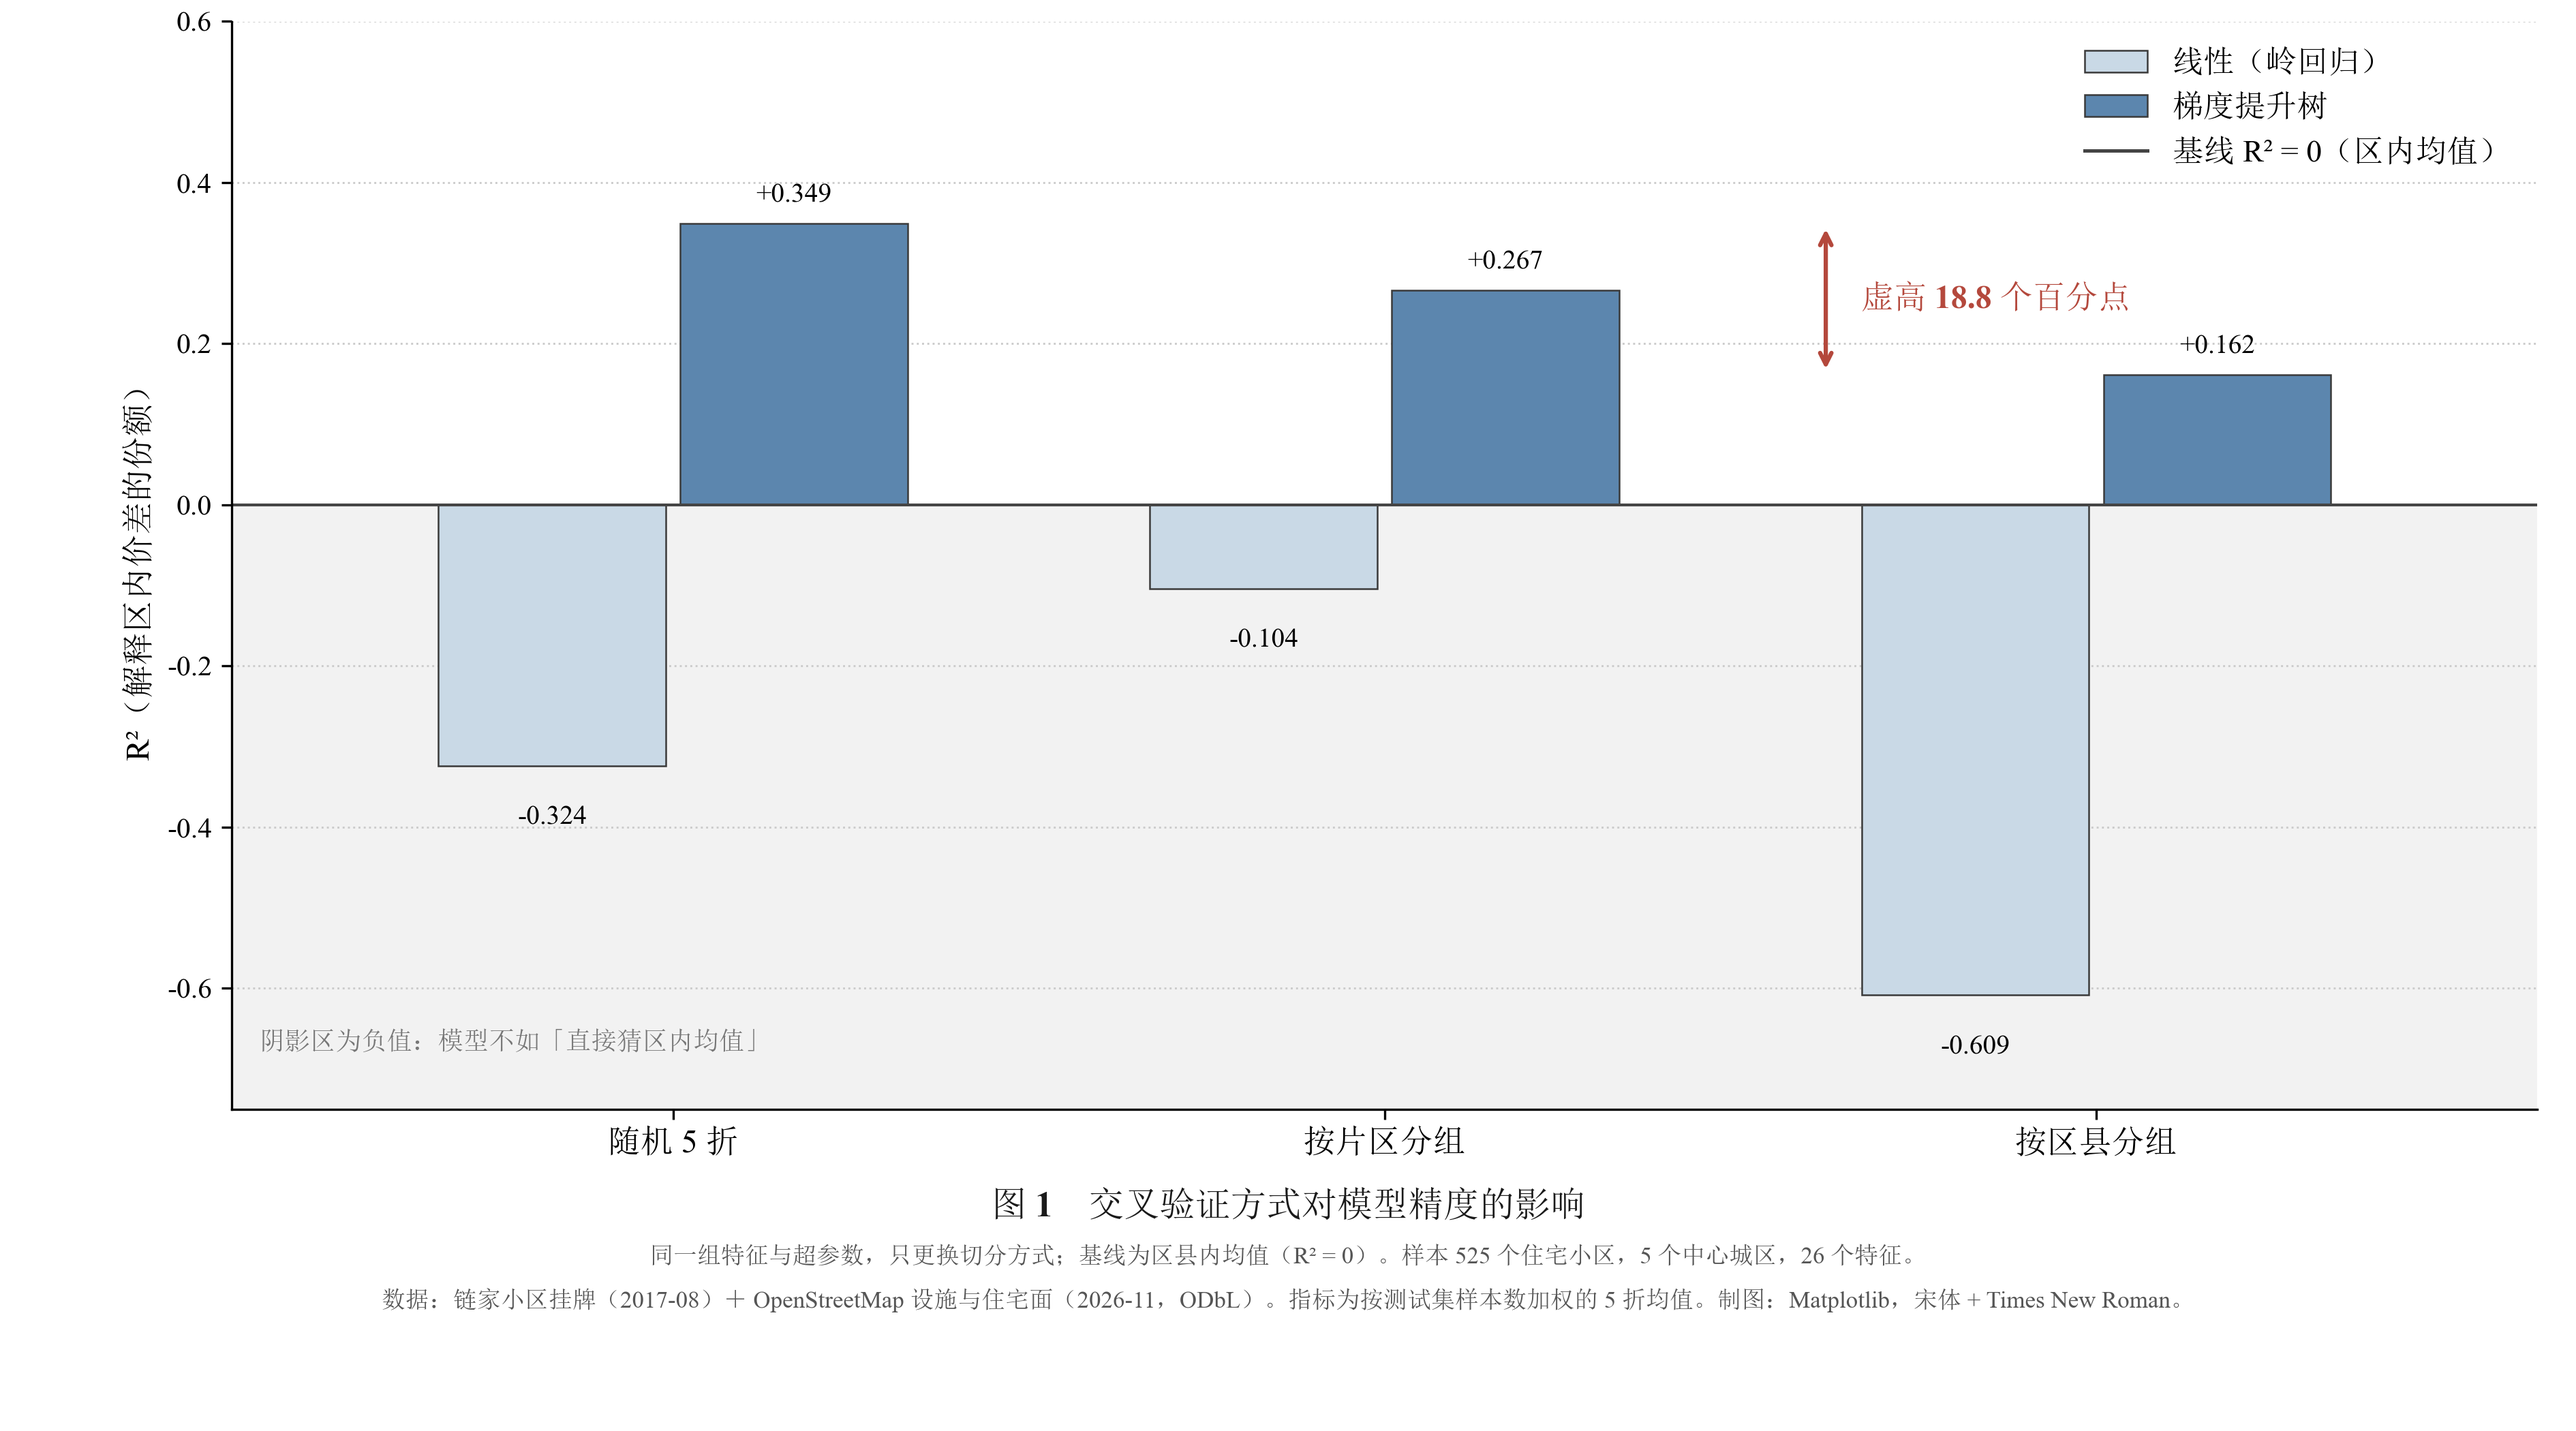
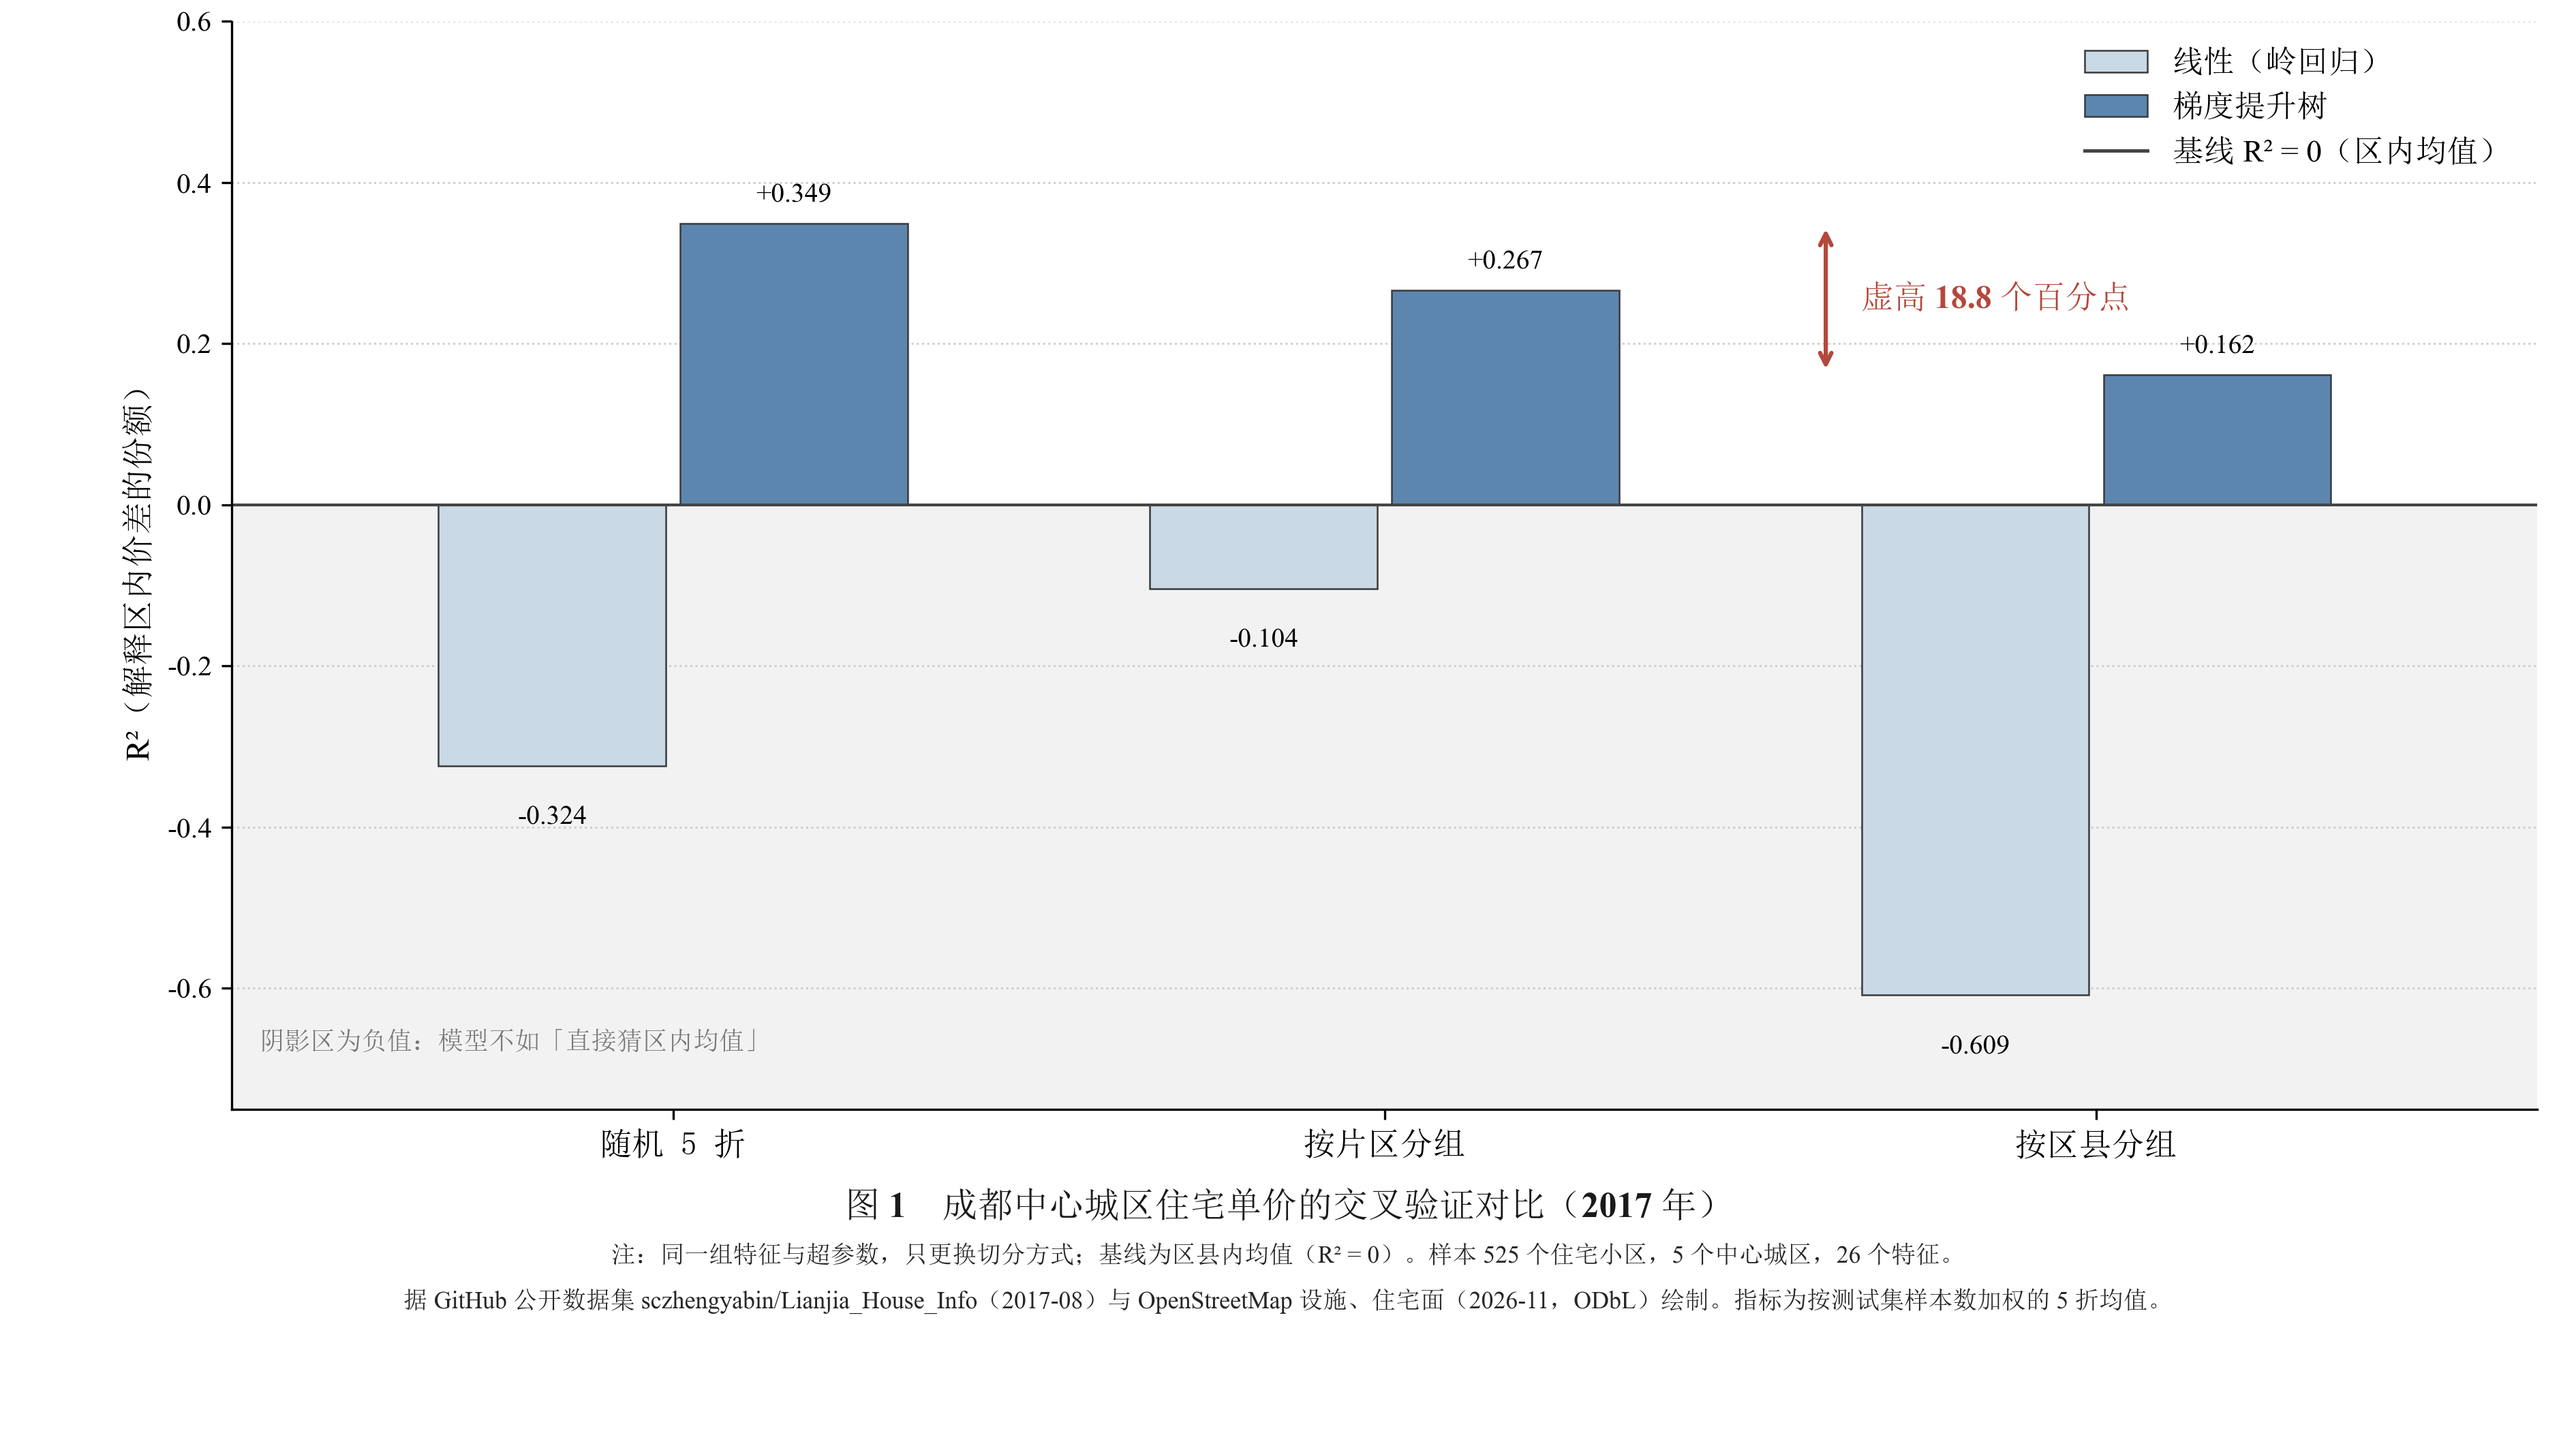
figs: 图题补地点时段自明性、注行改黑色并标数据出处（GB/T 7713.2-2022 §5.4.3）

Changed region(s): [[0.1561, 0.7738, 0.8429, 0.9286], [0.7804, 0.7738, 0.8429, 0.8048], [0.2185, 0.7738, 0.281, 0.8048]]

diff --git a/figures.py b/figures.py
@@ -53,12 +53,13 @@ def setup_fonts() -> bool:
 
 def add_caption(fig, no: int, title: str, notes: list[str], top: float,
                 step: float = 0.030) -> None:
-    """论文式图注：图号 + 题名居中放在图下，其后接说明行（小字、灰色）。"""
+    """论文式图注（GB/T 7713.2—2022 §5.4.3）：图序与图题居中置于图下方，
+    图题自明（含地点与时段），其下接「注：…」说明行，黑色、字号小于正文。"""
     fig.text(0.5, top, f"图 {no}　{title}", ha="center", va="top",
              fontsize=12.5, fontweight="bold", color="#1a1a1a")
     for i, n in enumerate(notes):
         fig.text(0.5, top - 0.038 - i * step, n, ha="center", va="top",
-                 fontsize=8.4, color="#555555")
+                 fontsize=8.6, color="#262626")
 
 
 def load_all():
@@ -101,7 +102,7 @@ def fig_cv_gap(cv: dict) -> Path:
             fontsize=11.5, color=WARM, ha="left", va="center", fontweight="bold")
 
     ax.set_xticks(x)
-    ax.set_xticklabels([s[1] for s in schemes], fontsize=11.5)
+    ax.set_xticklabels([s[1] for s in schemes], fontsize=11.5, fontfamily="SimSun")
     ax.set_ylabel("R²（解释区内价差的份额）", fontsize=11.5)
     ax.set_ylim(-0.75, 0.60)
     ax.set_xlim(-0.62, 2.62)
@@ -120,11 +121,11 @@ def fig_cv_gap(cv: dict) -> Path:
 
     fig.subplots_adjust(left=0.09, right=0.985, top=0.985, bottom=0.225)
     add_caption(
-        fig, 1, "交叉验证方式对模型精度的影响",
-        ["同一组特征与超参数，只更换切分方式；基线为区县内均值（R² = 0）。"
+        fig, 1, "成都中心城区住宅单价的交叉验证对比（2017 年）",
+        ["注：同一组特征与超参数，只更换切分方式；基线为区县内均值（R² = 0）。"
          "样本 525 个住宅小区，5 个中心城区，26 个特征。",
-         "数据：链家小区挂牌（2017-08）＋ OpenStreetMap 设施与住宅面（2026-11，ODbL）。"
-         "指标为按测试集样本数加权的 5 折均值。制图：Matplotlib，宋体 + Times New Roman。"],
+         "据 GitHub 公开数据集 sczhengyabin/Lianjia_House_Info（2017-08）与 OpenStreetMap "
+         "设施、住宅面（2026-11，ODbL）绘制。指标为按测试集样本数加权的 5 折均值。"],
         top=0.168)
     out = DOCS / "fig_cv_gap.png"
     fig.savefig(out, dpi=300, bbox_inches=None)
@@ -207,13 +208,13 @@ def fig_residual_map(oof: pd.DataFrame) -> Path:
 
     fig.subplots_adjust(left=0.02, right=0.985, top=0.985, bottom=0.235)
     add_caption(
-        fig, 2, "模型残差的空间分布",
-        ["梯度提升树，按区县分组 5 折的 out-of-fold 预测。残差 = 区内实际 log 单价与预测之差，"
+        fig, 2, "成都中心城区住宅单价模型残差的空间分布（2017 年）",
+        ["注：梯度提升树，按区县分组 5 折的 out-of-fold 预测。残差 = 区内实际 log 单价与预测之差，"
          "按该区 log 标准差还原为百分比。",
          f"Moran's I = {moran['I']}（p = {moran['p_perm']}，8 邻域 KNN 权重，999 次置换）。"
          "暖色为低估（实际更贵），冷色为高估；色阶截断于 ±95 分位。",
          "片区标注取样本数 ≥ 8 的片区中位数。投影 WGS84，比例尺按 30.7°N 换算。"
-         "数据：链家挂牌（2017-08）＋ OSM（2026-11，ODbL）。制图 2026-11-27。"],
+         "据 sczhengyabin/Lianjia_House_Info（2017-08）与 OSM（2026-11，ODbL）绘制。"],
         top=0.130, step=0.032)
     out = DOCS / "fig_residual_map.png"
     fig.savefig(out, dpi=300, bbox_inches=None)
@@ -255,11 +256,11 @@ def fig_importance(cv: dict) -> Path:
 
     fig.subplots_adjust(left=0.16, right=0.985, top=0.985, bottom=0.255)
     add_caption(
-        fig, 3, "各特征的置换重要性",
-        ["梯度提升树，按区县分组 5 折，在测试折上各做 15 次置换后取均值；误差棒为折间标准差。"
+        fig, 3, "成都中心城区住宅单价预测的置换特征重要性（2017 年）",
+        ["注：梯度提升树，按区县分组 5 折，在测试折上各做 15 次置换后取均值；误差棒为折间标准差。"
          "置换成负值表示打乱该特征后模型反而略好，属噪声。",
-         "数据：链家小区挂牌（2017-08）＋ OSM（2026-11，ODbL）。配色区分空间类（可达性、密度）"
-         "与属性类（形态、配套）。置换重要性衡量相关性，不代表因果。制图 2026-11-27。"],
+         "配色区分空间类（可达性、密度）与属性类（形态、配套）。置换重要性衡量相关性，不代表因果。"
+         "据 sczhengyabin/Lianjia_House_Info（2017-08）与 OSM（2026-11，ODbL）绘制。"],
         top=0.168, step=0.032)
     out = DOCS / "fig_feature_importance.png"
     fig.savefig(out, dpi=300, bbox_inches=None)

diff --git a/README.md b/README.md
@@ -7,7 +7,7 @@
 > 一条命令重建：`python run_model.py`（10 078 行原始挂牌 → 525 个样本 → 3 张图 + 1 张模型卡，约 3.5 分钟）
 
 ![切分方式的影响](docs/fig_cv_gap.png)
-<sub>图 1　交叉验证方式对模型精度的影响</sub>
+<sub>图 1　成都中心城区住宅单价的交叉验证对比（2017 年）</sub>
 
 ---
 
@@ -23,7 +23,7 @@
 样本：**525 个住宅小区**，5 个中心城区（金牛 135 / 武侯 124 / 成华 122 / 青羊 84 / 锦江 60），96 个片区，26 个特征。
 
 ![残差的空间分布](docs/fig_residual_map.png)
-<sub>图 2　模型残差的空间分布</sub>
+<sub>图 2　成都中心城区住宅单价模型残差的空间分布（2017 年）</sub>
 
 ## 二、解决什么问题
 
@@ -35,7 +35,7 @@
 所以这个项目可以当成一个「专业信号」：它输出的不是一张好看的预测图，而是**一句可以拿去说服客户的话**——「您这个项目如果想要可信的精度评估，切分必须按空间单元分组，否则数字是虚的」。
 
 ![特征重要性](docs/fig_feature_importance.png)
-<sub>图 3　各特征的置换重要性</sub>
+<sub>图 3　成都中心城区住宅单价预测的置换特征重要性（2017 年）</sub>
 
 ## 三、怎么跑
 
